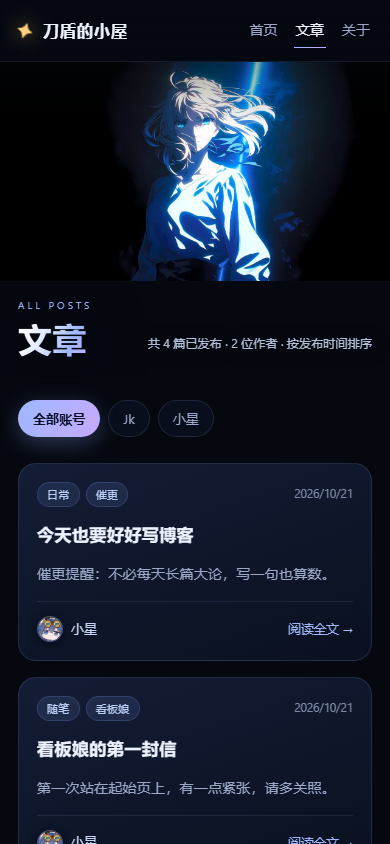
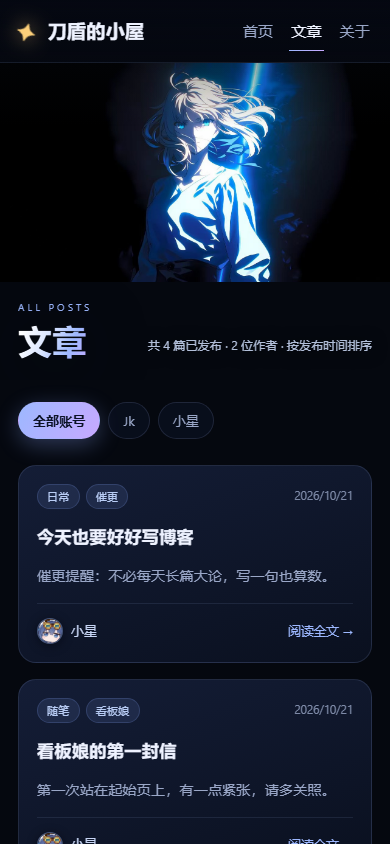
style: 顶栏品牌 / 导航 / 徽标整体放大
- 品牌字号 1.02 → 1.16rem（星标 1.3rem）、导航 0.94 → 1.03rem、徽标 0.71 → 0.78rem，间距同步微调
- 新增 --topbar-h 变量（桌面 70px / 手机 58px），首页首屏、关于页、文章页的首屏高度统一用它计算，避免顶栏变高后出现多余的滚动
- 手机端顶栏内边距与导航字号相应调整
- 重新生成全部验收截图

diff --git a/web/css/style.css b/web/css/style.css
@@ -16,6 +16,7 @@
   --glass: rgba(12, 19, 40, 0.55);
   --radius-lg: 22px;
   --radius-md: 18px;
+  --topbar-h: 70px;
   --font-sans: "Segoe UI", "PingFang SC", "Hiragino Sans GB", "Microsoft YaHei", "Noto Sans SC",
     system-ui, sans-serif;
   --font-mono: "Cascadia Code", "JetBrains Mono", Consolas, "Courier New", monospace;
@@ -227,7 +228,8 @@ img {
   display: flex;
   align-items: center;
   gap: 26px;
-  padding: 16px clamp(20px, 4vw, 48px);
+  min-height: var(--topbar-h);
+  padding: 12px clamp(20px, 4vw, 48px);
   background: linear-gradient(180deg, rgba(5, 8, 18, 0.82), rgba(5, 8, 18, 0.32));
   border-bottom: 1px solid rgba(148, 170, 220, 0.12);
   backdrop-filter: blur(18px);
@@ -236,33 +238,33 @@ img {
 .brand {
   display: inline-flex;
   align-items: center;
-  gap: 10px;
+  gap: 12px;
   color: var(--ink);
   text-decoration: none;
   font-weight: 650;
   letter-spacing: 0.04em;
-  font-size: 1.02rem;
+  font-size: 1.16rem;
 }
 
 .brand-mark {
   color: var(--gold);
-  font-size: 1.1rem;
+  font-size: 1.3rem;
   text-shadow: 0 0 18px rgba(255, 210, 122, 0.75);
   animation: sparkle 4.5s ease-in-out infinite;
 }
 
 .nav {
   display: flex;
-  gap: clamp(14px, 2.4vw, 32px);
+  gap: clamp(18px, 2.8vw, 38px);
   margin-left: auto;
 }
 
 .nav-link {
   position: relative;
-  padding: 6px 2px;
+  padding: 8px 2px;
   color: var(--muted);
   text-decoration: none;
-  font-size: 0.94rem;
+  font-size: 1.03rem;
   transition: color 0.22s ease;
 }
 
@@ -286,12 +288,12 @@ img {
 }
 
 .topbar-badge {
-  padding: 5px 13px;
+  padding: 6px 15px;
   border: 1px solid var(--line);
   border-radius: 999px;
   color: rgba(170, 190, 230, 0.75);
-  font-size: 0.71rem;
-  letter-spacing: 0.1em;
+  font-size: 0.78rem;
+  letter-spacing: 0.09em;
   white-space: nowrap;
 }
 
@@ -376,7 +378,7 @@ img {
   display: flex;
   align-items: center;
   max-width: 1320px;
-  min-height: calc(100svh - 64px);
+  min-height: calc(100svh - var(--topbar-h));
   margin: 0 auto;
   padding: clamp(40px, 7vh, 88px) clamp(20px, 5vw, 56px) clamp(56px, 8vh, 96px);
 }
@@ -946,7 +948,7 @@ img {
   justify-content: center;
   gap: clamp(14px, 2.4vh, 22px);
   width: min(920px, 100%);
-  min-height: calc(100svh - 64px);
+  min-height: calc(100svh - var(--topbar-h));
   margin: 0 auto;
   padding: clamp(32px, 6vh, 64px) clamp(20px, 5vw, 48px) clamp(40px, 7vh, 72px);
 }
@@ -992,7 +994,7 @@ img {
    ------------------------------------------------------------------ */
 
 .content-stage--page {
-  min-height: calc(100svh - 64px);
+  min-height: calc(100svh - var(--topbar-h));
   background:
     radial-gradient(1100px 320px at 50% -60px, rgba(88, 122, 210, 0.2), transparent 72%),
     linear-gradient(
@@ -1757,7 +1759,7 @@ img {
 @media (max-width: 1020px) {
   .hero {
     align-items: flex-end;
-    min-height: calc(100svh - 64px);
+    min-height: calc(100svh - var(--topbar-h));
     padding-top: clamp(24px, 4vh, 48px);
     padding-bottom: clamp(28px, 5vh, 56px);
   }
@@ -1780,9 +1782,13 @@ img {
 }
 
 @media (max-width: 640px) {
+  :root {
+    --topbar-h: 58px;
+  }
+
   .topbar {
     gap: 14px;
-    padding: 13px 18px;
+    padding: 11px 18px;
   }
 
   .brand-text {
@@ -1797,11 +1803,11 @@ img {
   }
 
   .nav-link {
-    font-size: 0.88rem;
+    font-size: 0.95rem;
   }
 
   .hero {
-    min-height: calc(100svh - 52px);
+    min-height: calc(100svh - var(--topbar-h));
     padding-top: 20px;
     padding-bottom: clamp(24px, 5vh, 40px);
     padding-left: 18px;
@@ -1809,7 +1815,7 @@ img {
   }
 
   .about-main {
-    min-height: calc(100svh - 52px);
+    min-height: calc(100svh - var(--topbar-h));
     padding-left: 18px;
     padding-right: 18px;
   }
@@ -1846,7 +1852,7 @@ img {
   }
 
   .content-stage--page {
-    min-height: calc(100svh - 52px);
+    min-height: calc(100svh - var(--topbar-h));
   }
 
   .library-main {
